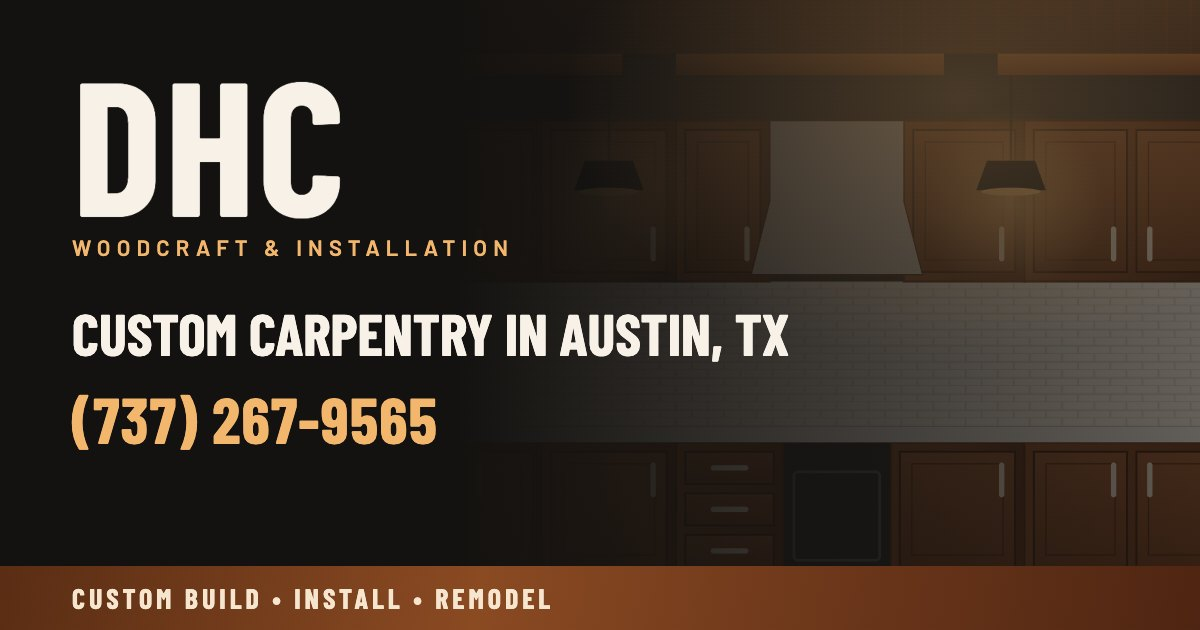
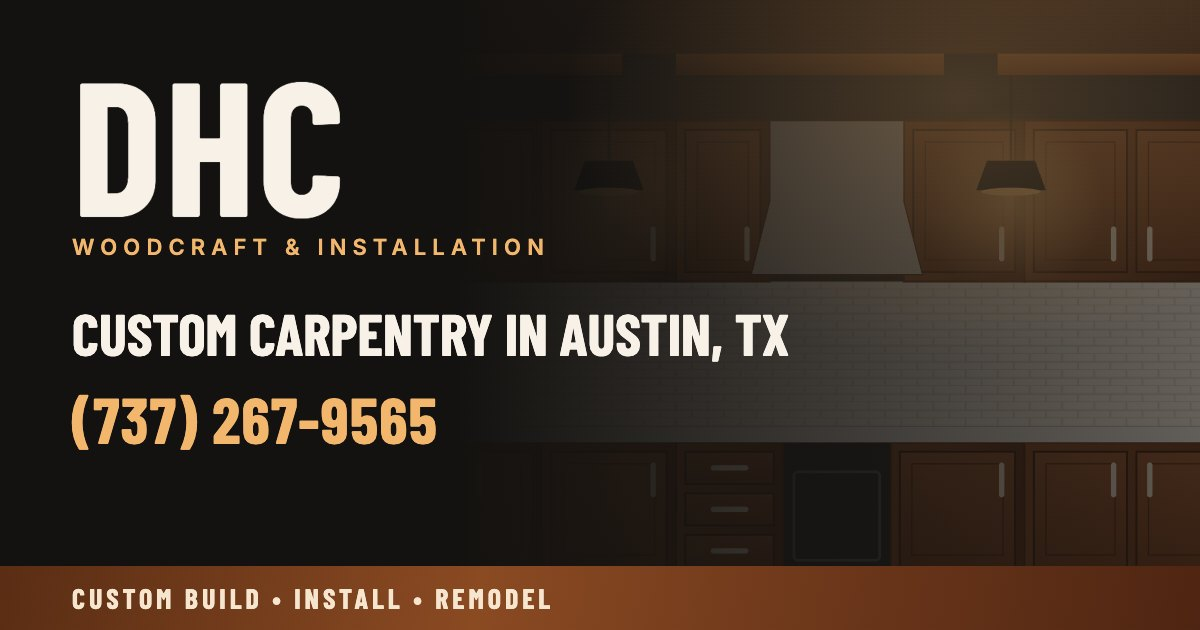
feat: texto en Inter y styleguide solo en desarrollo
- Decisión de Pablo: Barlow Condensed 700 para títulos + Inter variable
  para texto, etiquetas y botones (2 archivos de fuente en lugar de 3).
  Fuera barlow-400/600; OG regeneradas con Inter.
- Styleguide conservada como page.dev.tsx: pageExtensions solo reconoce
  .dev.tsx en desarrollo, así que /en/styleguide/ funciona con npm run dev
  y no existe en /out. Quitada la comparación de fuentes.
- Docs 01/02/03/05/06 y CLAUDE.md actualizados.

Changed region(s): [[0.0617, 0.3619, 0.4625, 0.4222]]

diff --git a/src/app/(site)/[lang]/styleguide/page.dev.tsx b/src/app/(site)/[lang]/styleguide/page.dev.tsx
@@ -1,10 +1,11 @@
-// TEMPORAL (T05–T24): guía visual de tokens, tipografía y componentes.
-// noindex, fuera del sitemap, se borra en T24. Única página exenta de la regla
+// Guía visual de tokens, tipografía y componentes. SOLO EN DESARROLLO: la
+// extensión .dev.tsx solo cuenta en `next dev` (pageExtensions en
+// next.config.ts), así que el build de producción no la genera (decisión de Pablo: se conserva para uso
+// futuro). noindex, fuera del sitemap. Única página exenta de la regla
 // "todo el texto sale de los diccionarios" (CLAUDE.md, regla 3).
 import type { Metadata } from "next";
 import { getDictionary, hasLocale } from "@/lib/i18n";
 import { notFound } from "next/navigation";
-import { interFont } from "../../../fonts";
 import { Button } from "@/components/ui/Button";
 import { GlassCard } from "@/components/ui/GlassCard";
 import { Icon, iconNames } from "@/components/ui/Icon";
@@ -51,7 +52,9 @@ const PhoneIcon = () => (
   </svg>
 );
 
-export default async function StyleguidePage({ params }: PageProps<"/[lang]/styleguide">) {
+// Parámetros tipados a mano: en producción la ruta no existe y no hay
+// PageProps<"/[lang]/styleguide"> generado.
+export default async function StyleguidePage({ params }: { params: Promise<{ lang: string }> }) {
   const { lang } = await params;
   if (!hasLocale(lang)) notFound();
   const dict = getDictionary(lang);
@@ -112,24 +115,6 @@ export default async function StyleguidePage({ params }: PageProps<"/[lang]/styl
         </div>
       </section>
 
-      <section aria-labelledby="sg-compare" className="grid gap-6">
-        <h2 id="sg-compare">Texto: Barlow o Inter</h2>
-        <p className="lead">Los títulos siguen en Barlow Condensed. Compara solo el texto corrido y elige una.</p>
-        <div className="grid gap-6 md:grid-cols-2">
-          <article className="grid gap-3 rounded border border-line bg-paper p-6">
-            <p className="eyebrow">A · Barlow 400 / 600 (actual)</p>
-            <h3>{dict.about.blocks[0].title}</h3>
-            <p>{sample}</p>
-            <p><b>{dict.about.blocks[0].points[0].title}.</b> {dict.about.blocks[0].points[0].text}</p>
-          </article>
-          <article className={`${interFont.variable} grid gap-3 rounded border border-line bg-paper p-6`} style={{ fontFamily: "var(--font-inter-face), system-ui, sans-serif" }}>
-            <p className="eyebrow" style={{ fontFamily: "inherit" }}>B · Inter (variable)</p>
-            <h3>{dict.about.blocks[0].title}</h3>
-            <p>{sample}</p>
-            <p><b>{dict.about.blocks[0].points[0].title}.</b> {dict.about.blocks[0].points[0].text}</p>
-          </article>
-        </div>
-      </section>
 
       <section aria-labelledby="sg-buttons" className="grid gap-6">
         <h2 id="sg-buttons">Botones</h2>

diff --git a/src/app/fonts.ts b/src/app/fonts.ts
@@ -1,8 +1,9 @@
 import localFont from "next/font/local";
 
-// Familia Barlow (docs/03 → Tipografía): 3 archivos, subconjunto latino
-// (incluye á é í ó ú ñ ü ¿ ¡). Licencia SIL OFL: fonts/OFL-Barlow.txt.
+// Tipografía (docs/03 → Tipografía): 2 archivos, subconjunto latino
+// (incluye á é í ó ú ñ ü ¿ ¡). Licencias SIL OFL en fonts/OFL-*.txt.
 
+// Títulos (H1–H3), números y wordmark.
 export const displayFont = localFont({
   src: "./fonts/barlow-condensed-700.woff2",
   weight: "700",
@@ -12,21 +13,12 @@ export const displayFont = localFont({
   fallback: ["Arial Narrow", "sans-serif"],
 });
 
+// Texto, eyebrows, botones y etiquetas: Inter variable (un archivo, todos los pesos).
 export const bodyFont = localFont({
-  src: [
-    { path: "./fonts/barlow-400.woff2", weight: "400", style: "normal" },
-    { path: "./fonts/barlow-600.woff2", weight: "600", style: "normal" },
-  ],
+  src: "./fonts/inter-variable.woff2",
+  weight: "100 900",
+  style: "normal",
   variable: "--font-body-face",
   display: "swap",
   fallback: ["system-ui", "sans-serif"],
-});
-
-// Solo para comparar en la styleguide (T05). Se borra cuando Pablo elija.
-export const interFont = localFont({
-  src: "./fonts/inter-variable.woff2",
-  weight: "100 900",
-  variable: "--font-inter-face",
-  display: "swap",
-  preload: false,
 });

diff --git a/scripts/brand/make-assets.tsx b/scripts/brand/make-assets.tsx
@@ -17,8 +17,7 @@ const font = (file: string) => `data:font/woff2;base64,${readFileSync(join(ROOT,
 
 const fontFaces = `
 @font-face { font-family: "BC"; src: url(${font("barlow-condensed-700.woff2")}) format("woff2"); font-weight: 700; }
-@font-face { font-family: "B"; src: url(${font("barlow-400.woff2")}) format("woff2"); font-weight: 400; }
-@font-face { font-family: "B"; src: url(${font("barlow-600.woff2")}) format("woff2"); font-weight: 600; }`;
+@font-face { font-family: "B"; src: url(${font("inter-variable.woff2")}) format("woff2"); font-weight: 100 900; }`;
 
 function ogHtml(lang: "en" | "es") {
   const dict = getDictionary(lang);

diff --git a/next.config.ts b/next.config.ts
@@ -2,8 +2,12 @@ import type { NextConfig } from "next";
 
 // Fase 1: sitio 100 % estático en /out (ver docs/02-arquitectura.md).
 // Fase 2: quitar `output` e `images.unoptimized` y servir con `next start`.
+const isDev = process.env.NODE_ENV !== "production";
+
 const nextConfig: NextConfig = {
   output: "export",
+  // *.dev.tsx solo existe en desarrollo (styleguide: /en/styleguide/).
+  pageExtensions: isDev ? ["dev.tsx", "tsx", "ts"] : ["tsx", "ts"],
   trailingSlash: true,
   images: { unoptimized: true },
   poweredByHeader: false,

diff --git a/docs/06-plan-de-implementacion.md b/docs/06-plan-de-implementacion.md
@@ -43,10 +43,10 @@ Prompt sugerido para cada sesión de Claude Code:
 
 ## Bloque B · Sistema de diseño
 
-- [x] **T05 · Tokens, fuentes y estilos base** — hecho; **pendiente:** Pablo elige Barlow o Inter para el texto en `/en/styleguide/` (por defecto Barlow, como la maqueta)
-  Paleta de `03` como variables CSS y tema de Tailwind (`@theme`). Fuentes Barlow Condensed 700, Barlow 400 y Barlow 600 (`.woff2` latin + `OFL.txt`) con `next/font/local`, escala tipográfica fluida, foco visible, `SkipLink`, `scroll-margin-top` y el bloque `prefers-reduced-motion`.
-  Página temporal **`/en/styleguide/`** (no `_styleguide`: las carpetas con `_` no generan ruta), con `noindex` y fuera del sitemap. Muestra colores, tipografías y botones, y una comparación del texto en Barlow 400/600 frente a Inter para que Pablo elija. Es la única página exenta de la regla de diccionarios.
-  **Terminado:** la styleguide se ve en `/en/styleguide/` y Pablo confirma la fuente del texto (la maqueta usa Barlow 400/600).
+- [x] **T05 · Tokens, fuentes y estilos base** — texto en Inter (elegido por Pablo el 4 oct 2026)
+  Paleta de `03` como variables CSS y tema de Tailwind (`@theme`). Fuentes Barlow Condensed 700 e Inter variable (`.woff2` latin + licencias OFL) con `next/font/local`, escala tipográfica fluida, foco visible, `SkipLink`, `scroll-margin-top` y el bloque `prefers-reduced-motion`.
+  Página **`/en/styleguide/`** (no `_styleguide`: las carpetas con `_` no generan ruta), con `noindex`, fuera del sitemap y **solo en desarrollo** (el build de producción no la genera). Muestra colores, tipografías y botones, y una comparación del texto en Barlow 400/600 frente a Inter para que Pablo elija. Es la única página exenta de la regla de diccionarios.
+  **Terminado:** la styleguide se ve en `/en/styleguide/` y Pablo confirma la fuente del texto (elegida: Inter).
 
 - [x] **T06 · Componentes UI e imágenes**
   `Container`, `SectionHeading` (eyebrow + H2 + lead), `Button` (variantes de `03`), `Icon` (8 iconos de línea para los servicios más teléfono, flecha, check, menú, cerrar, WhatsApp, pausa/play, anterior/siguiente), `Photo`, `PhotoPlaceholder` (veta de madera e icono; acepta foto), el patrón SVG `WoodGrain` y `GlassCard` (variantes de `03` → Vidrio esmerilado). Script `scripts/optimize-images.mjs` (sharp como devDependency) según `02` → Imágenes.
@@ -99,8 +99,8 @@ Prompt sugerido para cada sesión de Claude Code:
   Umami (Docker + Postgres) en la VPS, publicado solo en `127.0.0.1:3001` y con límite de memoria; `stats.psalazar.dev` en Caddy y en DNS (gris). Script con `next/script` y atributos `data-umami-event` de `02`. Search Console con propiedad de prefijo de URL (archivo HTML en `public/`) y Bing Webmaster importando desde Search Console.
   ⚠ Requiere que la VPS esté montada (T25, requisitos previos); si aún no lo está, hacer T23 después de T25.
   **Terminado:** en el panel de Umami aparecen una visita y cada uno de los eventos de prueba.
-- [ ] **T24 · Auditoría** — **automática hecha (4 oct 2026):** Lighthouse móvil en/es: Perf 98/97 · A11y 100 · BP 100 · SEO 100, CLS 0, TBT 30–50 ms, LCP 2,5/2,6 s (laboratorio; el elemento LCP es la franja de vista previa y el retraso es de render por el HTML con 10 ilustraciones SVG: bajará con las fotos reales en T26). axe (WCAG 2.2 AA + buenas prácticas) sin violaciones en /en/, /es/, 404 por idioma y global, a 1280 y 375 px. 202 enlaces internos sin rotos. **Pendiente:** revisión del español por un hablante nativo y borrar la styleguide cuando Pablo elija la fuente del texto.
-  Lighthouse móvil en `/en/` y `/es/` (objetivos de `05`), axe sin violaciones serias, enlaces rotos, revisión del texto en español por un hablante nativo y **borrar la styleguide** (también `interFont` si no se eligió Inter, y la imagen de prueba `styleguide-test` de `public/images/` y de `src/content/images.json`).
+- [ ] **T24 · Auditoría** — **automática hecha (4 oct 2026):** Lighthouse móvil en/es: Perf 98/97 · A11y 100 · BP 100 · SEO 100, CLS 0, TBT 30–50 ms, LCP 2,5/2,6 s (laboratorio; el elemento LCP es la franja de vista previa y el retraso es de render por el HTML con 10 ilustraciones SVG: bajará con las fotos reales en T26). axe (WCAG 2.2 AA + buenas prácticas) sin violaciones en /en/, /es/, 404 por idioma y global, a 1280 y 375 px. 202 enlaces internos sin rotos. **Pendiente:** revisión del español por un hablante nativo. La styleguide se conserva (decisión de Pablo) pero solo se genera en desarrollo.
+  Lighthouse móvil en `/en/` y `/es/` (objetivos de `05`), axe sin violaciones serias, enlaces rotos, revisión del texto en español por un hablante nativo y comprobar que la styleguide no está en `/out`.
 - [ ] **T25 · Despliegue en la VPS**
   Seguir `02` → Hosting respetando las **reglas de convivencia con TTrack**. Comprobar los requisitos previos (runbook de TTrack, pasos 0–7). Instalar o reutilizar Caddy, añadir `sites/dhc.caddy` (validar y `reload`, nunca `restart`), `ufw allow 80,443/tcp`, crear `/var/www/dhc` (de `pablo`) y `deploy/deploy.sh`. DNS: `cf_dns.py add dhc A 152.53.39.211 --no-proxy` y `verify`. Enviar el sitemap a Search Console.
   **Terminado:** `https://dhc.psalazar.dev/` redirige según el idioma, `/en/xyz` devuelve 404 con la página en inglés, `curl -I` muestra las cabeceras de seguridad y caché, un despliegue nuevo se puede revertir cambiando el symlink y **TTrack sigue funcionando** (`systemctl status ttrack-poller` y las comprobaciones de `dns-y-credenciales.md` §5).

diff --git a/docs/03-diseno.md b/docs/03-diseno.md
@@ -48,24 +48,22 @@ Solo tema claro con secciones oscuras alternadas. Por ahora no hay modo oscuro a
 
 ## Tipografía
 
-**Decisión:** una sola familia, **Barlow**, coherente con el "WOODCRAFT & INSTALLATION" del logo. Sin serif. Tres archivos en total.
+**Decisión (Pablo, 4 oct 2026):** Barlow Condensed para títulos, coherente con el "WOODCRAFT & INSTALLATION" del logo, e **Inter** para el texto, más neutra y legible en párrafos. Sin serif. Dos archivos en total. Se comparó con Barlow 400/600 en la styleguide (captura en `docs/mockups/comparacion-fuentes.png`).
 
 | Rol | Fuente | Archivo |
 |---|---|---|
-| Display / títulos (H1–H3), números de estadísticas | **Barlow Condensed 700** | `barlow-condensed-700.woff2` |
-| Texto | **Barlow 400** | `barlow-400.woff2` |
-| Eyebrows, botones, etiquetas, negritas | **Barlow 600** (eyebrows en MAYÚSCULAS, `letter-spacing: .18em`, como "CUSTOM BUILD • INSTALL • REMODEL") | `barlow-600.woff2` |
+| Display / títulos (H1–H3), números de estadísticas, wordmark | **Barlow Condensed 700** | `barlow-condensed-700.woff2` |
+| Texto, eyebrows, botones, etiquetas, negritas | **Inter** variable (400 texto, 600 etiquetas y negritas; eyebrows en MAYÚSCULAS, `letter-spacing: .18em`) | `inter-variable.woff2` |
 
-- Origen: Google Fonts / Fontsource (licencia SIL OFL; se incluye `OFL.txt` junto a los archivos). Subconjunto **latin**, que incluye á, é, í, ó, ú, ñ, ü, ¿ y ¡.
-- Carga con `next/font/local`. Precarga solo de Barlow Condensed 700 (la del H1) y Barlow 400.
+- Origen: Google Fonts (licencia SIL OFL; `OFL-Barlow.txt` y `OFL-Inter.txt` junto a los archivos). Subconjunto **latin**, que incluye á, é, í, ó, ú, ñ, ü, ¿ y ¡.
+- Carga con `next/font/local`; las dos se precargan (son las del contenido inicial).
 - **Sin cursivas:** no se carga ninguna itálica y el navegador las falsearía. El acento emotivo del H1 ("*built to last*") se hace con **color `--glow`**, no con cursiva.
 - Escala fluida con `clamp()`: H1 `clamp(2.6rem, 6vw, 5rem)`, H2 `clamp(2rem, 4vw, 3.2rem)`, H3 `1.5rem`, texto `1.0625rem` con `line-height: 1.6`.
-- **Alternativa a comparar en T05:** Inter (variable) para el texto en lugar de Barlow 400/600. La styleguide muestra las dos para decidir viendo algo real. Si se elige Inter, el total sigue siendo 3 archivos (Barlow Condensed 700 + Barlow 600 + Inter variable).
 
 ## Logo
 
 - Header: emblema "DHC" + "Woodcraft & Installation". **Requiere logo en vector o PNG transparente** (`H3`). El de la tarjeta es una imagen muy detallada (casa, madera, cocina) que no escala bien a tamaño de header ni de favicon. Lo más probable es que haya que **redibujar una versión simplificada en vector**.
-- Mientras tanto, un *wordmark* temporal en texto: "DHC" en Barlow Condensed 700 y debajo "WOODCRAFT & INSTALLATION" en Barlow 600 pequeño.
+- Mientras tanto, un *wordmark* temporal en texto: "DHC" en Barlow Condensed 700 y debajo "WOODCRAFT & INSTALLATION" en Inter 600 pequeño.
 - Favicon / `icon.svg`: monograma "DHC" sobre fondo `--ink`.
 - **No** usar la tarjeta completa (con teléfonos) como logo en la web.
 

diff --git a/CLAUDE.md b/CLAUDE.md
@@ -32,7 +32,7 @@ Recursos de marca: `assets/brand/` (tarjeta de presentación original con el log
 
 1. **Pablo decide contigo, no tú solo.** Las propuestas se discuten antes de implementarse. Si una tarea obliga a tomar una decisión que no está en `docs/`, para y pregunta.
 2. **Una tarea del plan a la vez** (`docs/06`). Al terminar, verifica su criterio de "terminado" y márcala en el plan.
-3. **Todo el texto visible sale de los diccionarios** (`src/content/en.ts`, `src/content/es.ts`). Nada de strings hardcodeados en componentes (única excepción: la styleguide temporal).
+3. **Todo el texto visible sale de los diccionarios** (`src/content/en.ts`, `src/content/es.ts`). Nada de strings hardcodeados en componentes (única excepción: la styleguide, que solo existe en desarrollo).
 4. **Datos del negocio en un solo archivo** (`src/content/site.ts`). Lo que aún no está confirmado lleva `// TODO(confirmar) <código del cuestionario>`. Los diccionarios no repiten esos datos: usan marcadores (`{phone}`, `{year}`…) que se rellenan con `fill()`.
 5. **Nada de contenido falso en producción:** ni reseñas inventadas presentadas como reales, ni fotos de stock presentadas como trabajos de DHC. Los marcadores de posición deben verse como tales (ver `docs/04`).
 6. **JS mínimo:** Server Components por defecto; `"use client"` solo donde haga falta interactividad. El rendimiento es parte del SEO.

diff --git a/docs/01-vision-y-alcance.md b/docs/01-vision-y-alcance.md
@@ -88,7 +88,7 @@ La arquitectura de las fases 1 y 1.5 debe permitir la fase 2 **sin reescribir co
 | Dominio | **`dhc.psalazar.dev`** (subdominio de Pablo) como decisión inicial. DNS en Cloudflare, registro en gris | `02` → Hosting. Si DHC tiene dominio propio más adelante: `02` → Migración |
 | Formulario | **Web3Forms** + *honeypot* antispam | `02` → Formulario |
 | Analítica | **Umami** autoalojado en `stats.psalazar.dev` + Google Search Console | `02` → Analítica |
-| Tipografía | Familia **Barlow**: Barlow Condensed 700 (títulos) + Barlow 400/600 (texto y etiquetas). 3 archivos. Sin serif | `03`. Se puede comparar con Inter en la styleguide (T05) |
+| Tipografía | **Barlow Condensed 700** (títulos) + **Inter** variable (texto, etiquetas y botones). 2 archivos. Sin serif. Elegida por Pablo el 4 oct 2026 viendo la comparación en la styleguide | `03` |
 | Páginas por servicio | Fase 1.5, estáticas | Arriba |
 | Diseño visual | **Maqueta v1 aprobada** (4 oct 2026): cocina que se arma con el scroll, vidrio esmerilado, antes/después que se voltea en carrusel, reseñas en carrusel y mapa de zonas sin huecos | `03`, `docs/mockups/maqueta-v1.html` |
 

diff --git a/docs/02-arquitectura.md b/docs/02-arquitectura.md
@@ -70,7 +70,7 @@ const nextConfig: NextConfig = {
 │   │   │   ├── page.tsx              # la landing (compone las secciones)
 │   │   │   ├── not-found.tsx         # para notFound() dentro de [lang]
 │   │   │   ├── page-not-found/page.tsx   # 404 por idioma que sirve Caddy (noindex)
-│   │   │   ├── styleguide/page.tsx   # TEMPORAL (T05–T24), noindex, fuera del sitemap
+│   │   │   ├── styleguide/page.dev.tsx  # solo en desarrollo (npm run dev; pageExtensions), noindex
 │   │   │   └── [section]/[service]/page.tsx  # fase 1.5: páginas por servicio
 │   │   ├── sitemap.ts                # force-static, con alternates hreflang
 │   │   └── robots.ts                 # force-static

diff --git a/docs/05-seo.md b/docs/05-seo.md
@@ -142,7 +142,7 @@ Presupuesto por página:
 | JS propio (sin el runtime de Next) | ≤ 15 KB gzip |
 | JS de terceros | Solo Umami (~2 KB), con `defer` |
 | CSS | ≤ 30 KB gzip |
-| Fuentes | 3 archivos woff2 (ver `03`), precarga solo de Barlow Condensed 700 y Barlow 400 |
+| Fuentes | 2 archivos woff2: Barlow Condensed 700 (~15 KB) e Inter variable (~48 KB), ambas precargadas (ver `03`) |
 | Imagen LCP | ≤ 200 KB, con `priority` |
 | Lighthouse móvil | Perf ≥ 90 · SEO 100 · A11y ≥ 95 · BP ≥ 95 |
 | CWV | LCP < 2.5 s · CLS < 0.1 · INP < 200 ms |
